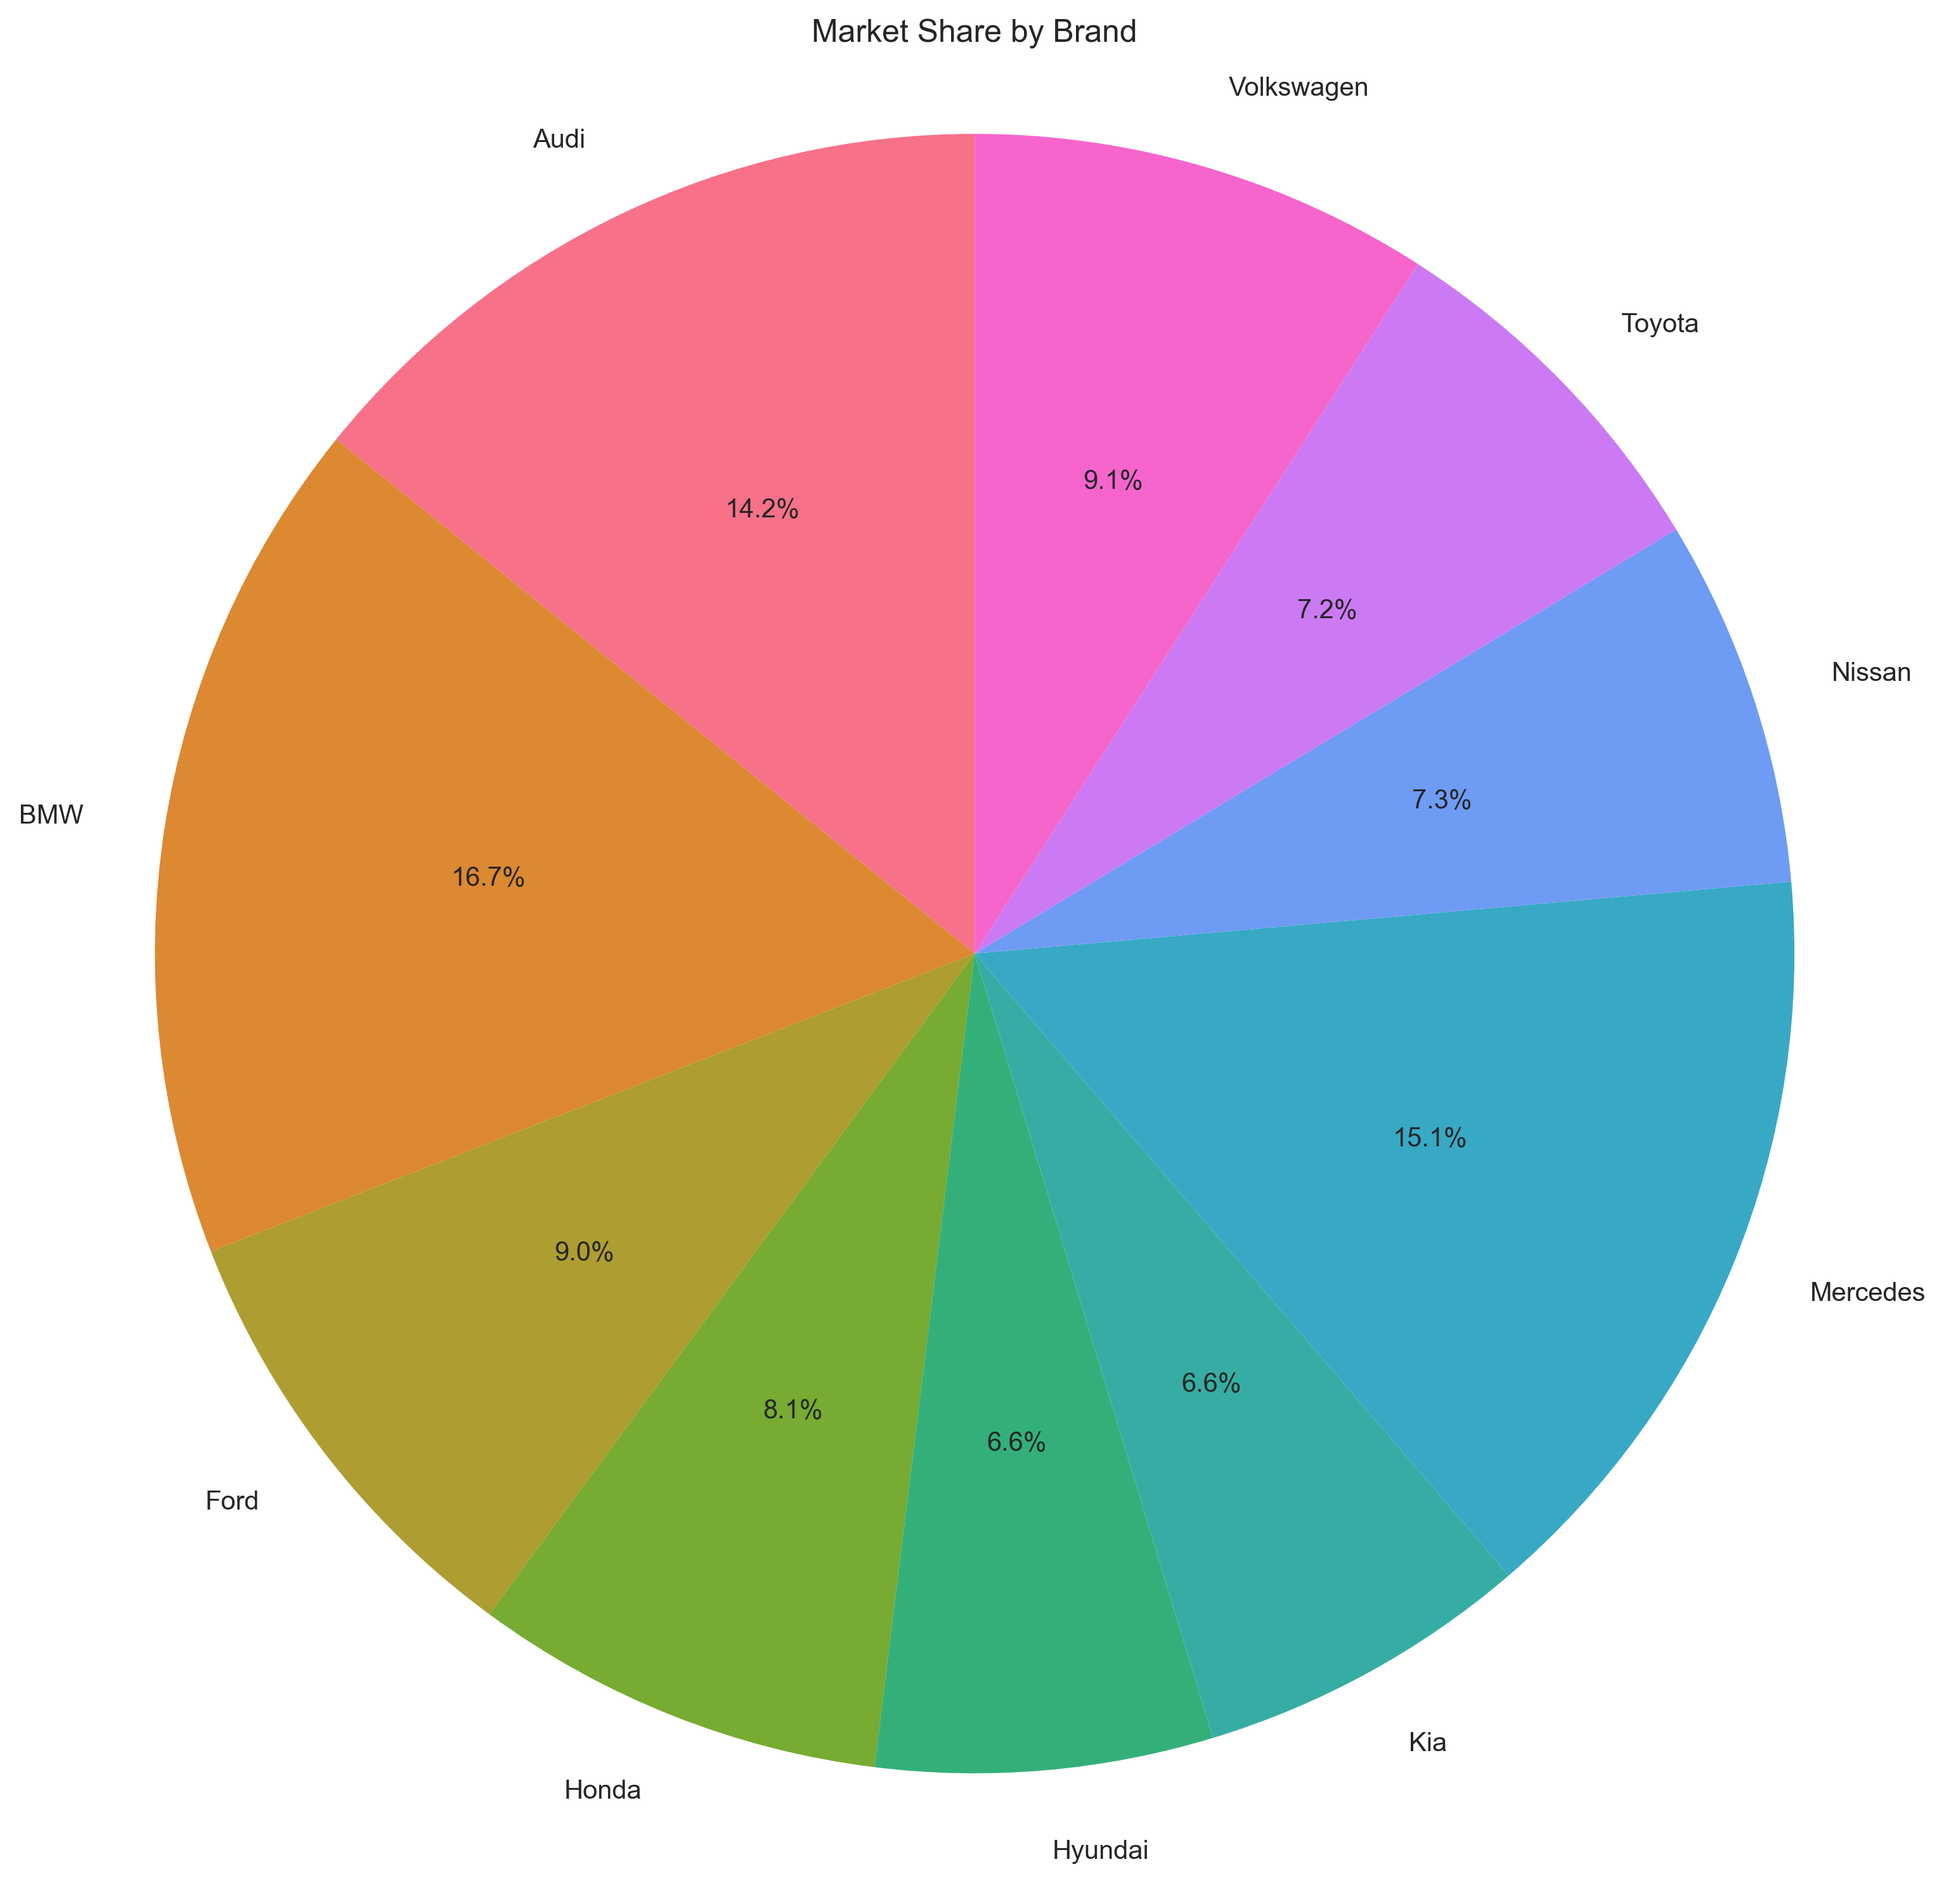
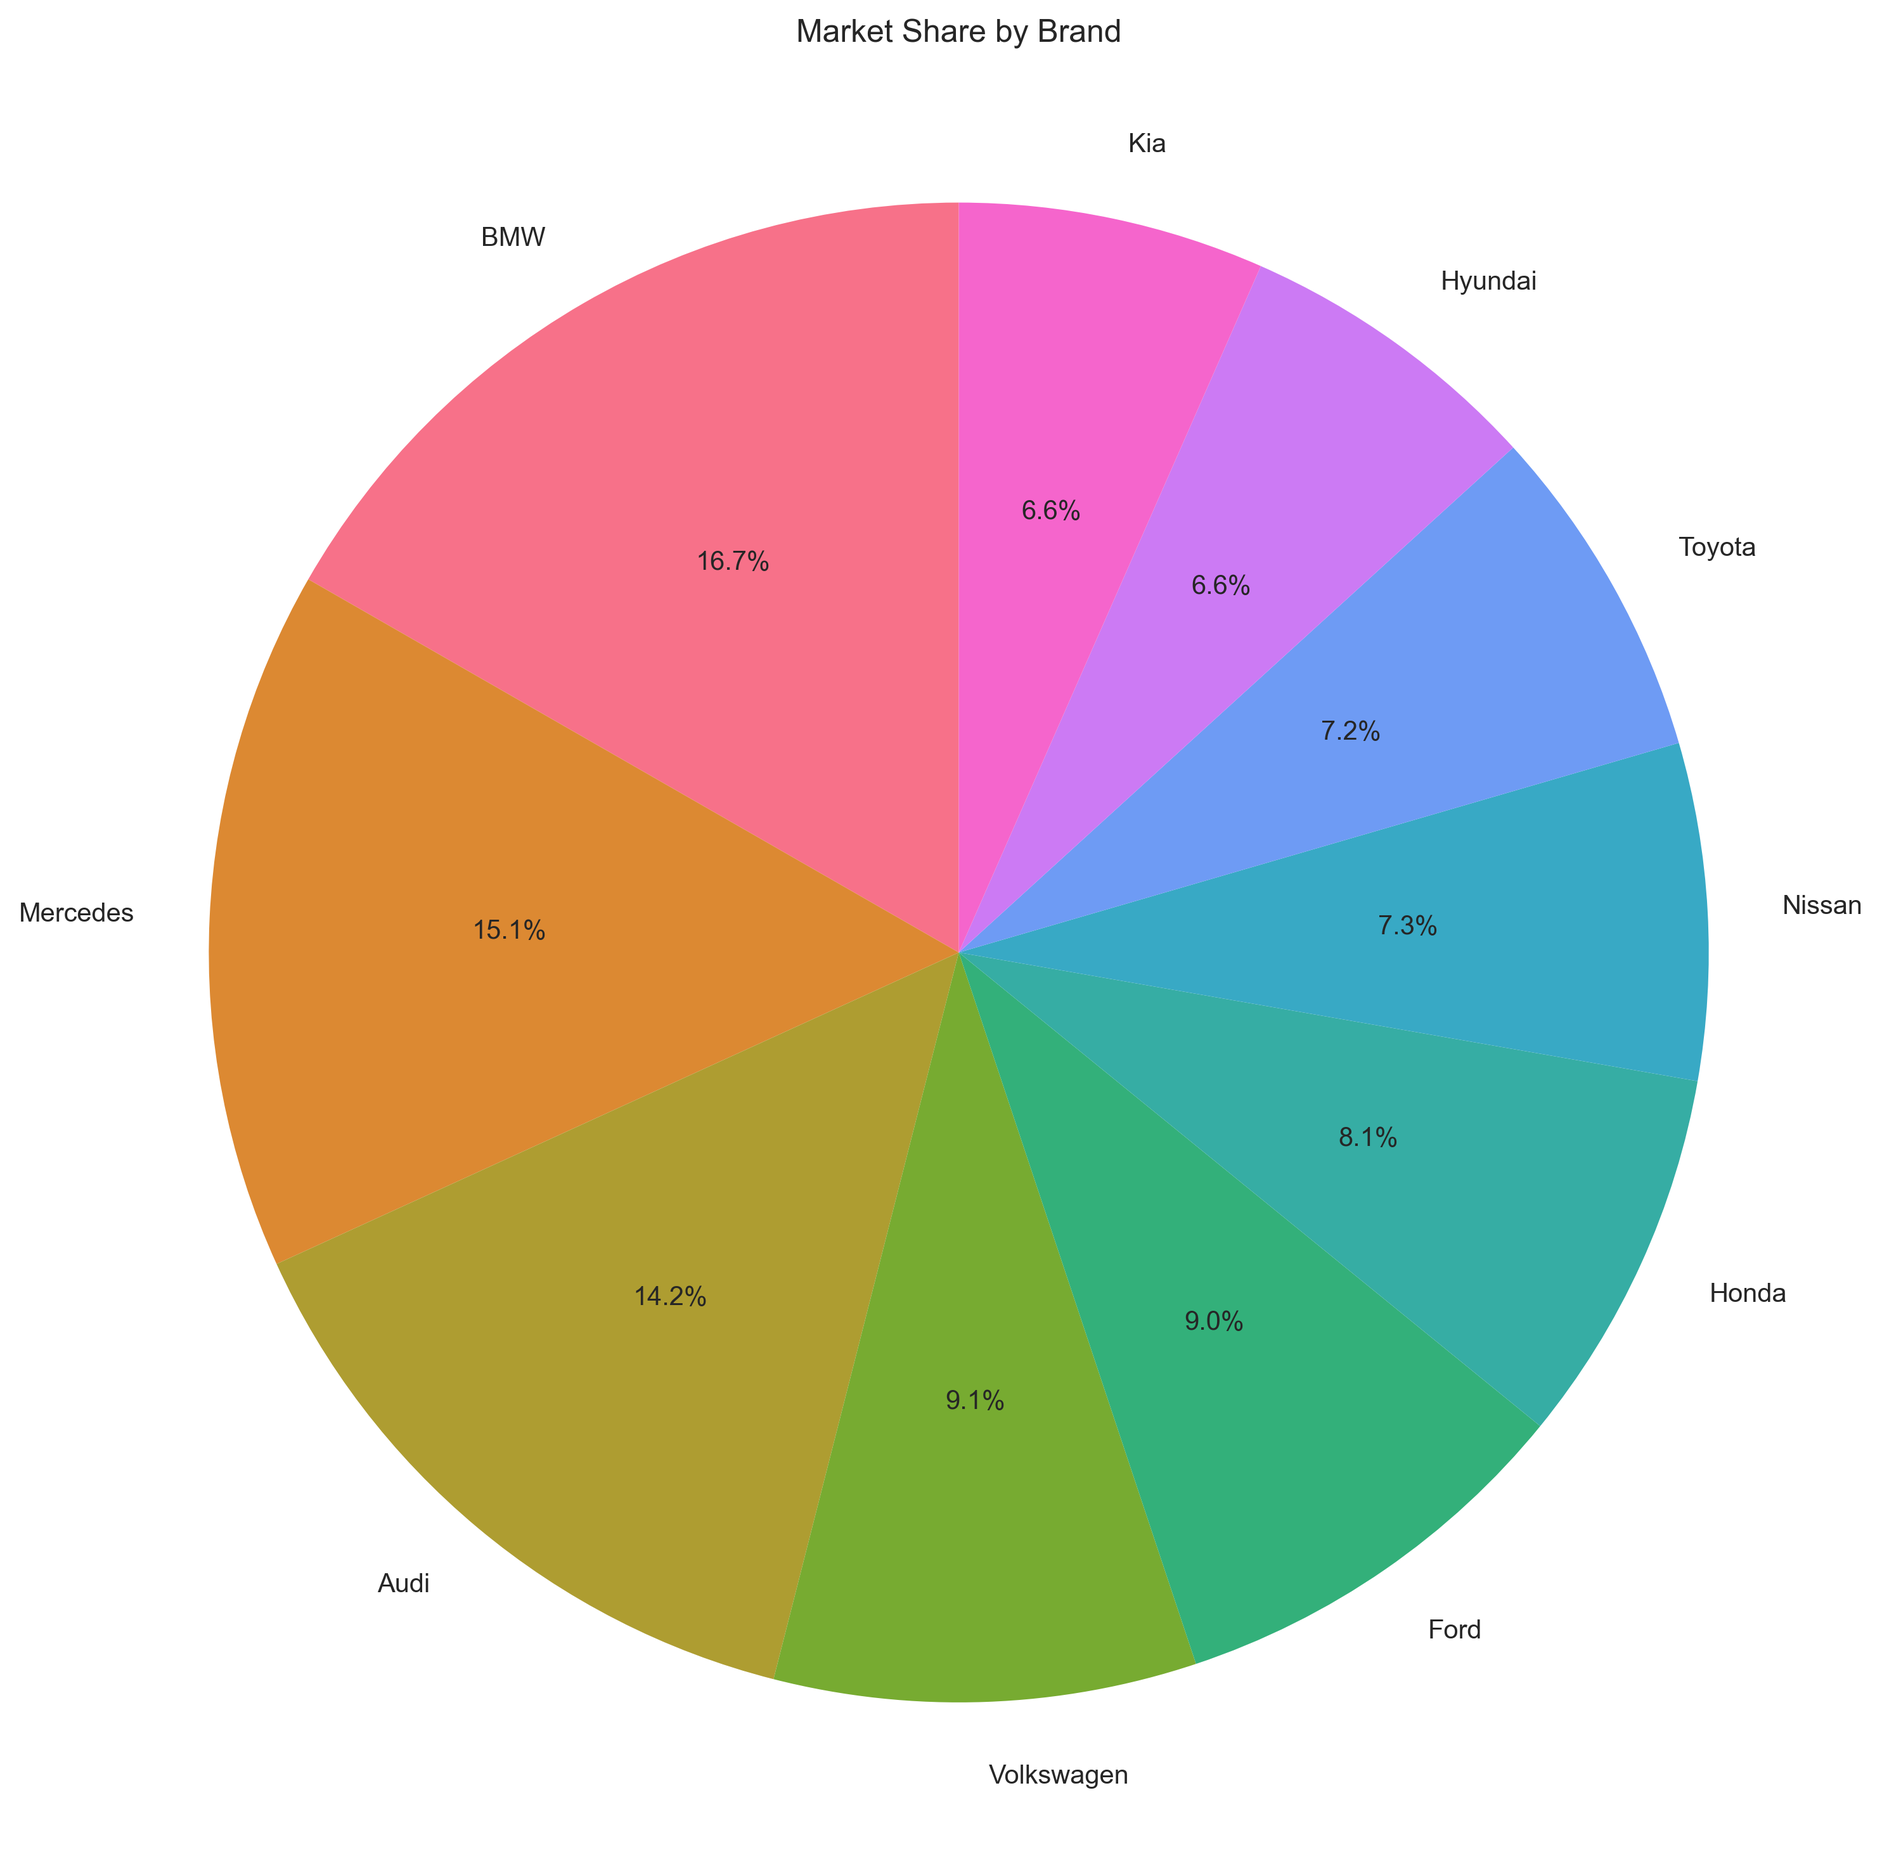
fix bugs

diff --git a/analysis_3/src/data_analyzer.py b/analysis_3/src/data_analyzer.py
@@ -34,7 +34,7 @@ class DataAnalyzer:
             (1 - brand_analysis['discount_mean'].rank(pct=True)) * 0.25
         ) * 100
         
-        return brand_analysis.sort_values('performance_score', ascending=True)
+        return brand_analysis.sort_values('performance_score', ascending=False)
     
     def regional_analysis(self):
         regional_stats = self.df.groupby('region').agg({
@@ -118,6 +118,8 @@ class DataAnalyzer:
                 'r_squared': 0,
                 'confidence_level': 'low',
                 'statistically_significant': False,
+                'p_value': None,
+                'data_points': len(df),
                 'data_with_trends': df
             }
         
@@ -127,14 +129,38 @@ class DataAnalyzer:
         trend_slope = model.coef_[0]
         r_squared = model.score(X, y)
         
-        confidence = 'high' if r_squared > 0.7 else 'medium' if r_squared > 0.4 else 'low'
+        y_pred = model.predict(X)
+        residuals = y - y_pred
+        n = len(X)
+        p = 1
+        
+        mse = np.sum(residuals ** 2) / (n - p - 1)
+        X_with_intercept = np.column_stack([np.ones(n), X.flatten()])
+        try:
+            var_coef = mse * np.linalg.inv(X_with_intercept.T @ X_with_intercept)
+            se_slope = np.sqrt(var_coef[1, 1])
+            t_stat = trend_slope / se_slope if se_slope > 0 else 0
+            p_value = 2 * (1 - stats.t.cdf(abs(t_stat), n - p - 1))
+        except:
+            p_value = 1.0
+        
+        is_significant = p_value < 0.05 and r_squared > 0.3
+        
+        if r_squared > 0.7 and p_value < 0.01:
+            confidence = 'high'
+        elif r_squared > 0.4 and p_value < 0.05:
+            confidence = 'medium'
+        else:
+            confidence = 'low'
         
         return {
             'trend_direction': trend_direction,
             'trend_slope': round(trend_slope, 2),
             'r_squared': round(r_squared, 4),
             'confidence_level': confidence,
-            'statistically_significant': r_squared > 0.3,
+            'statistically_significant': is_significant,
+            'p_value': round(p_value, 4) if p_value is not None else None,
+            'data_points': len(df),
             'data_with_trends': df
         }
     
@@ -148,11 +174,8 @@ class DataAnalyzer:
         features['brand_encoded'] = brand_encoded
         features['region_encoded'] = region_encoded
         
-        np.random.seed(42)
-        init_centers = features.sample(n=n_clusters, random_state=123).values
-        
-        kmeans = KMeans(n_clusters=n_clusters, init=init_centers, n_init=1, 
-                       max_iter=300, random_state=None)
+        kmeans = KMeans(n_clusters=n_clusters, init='k-means++', n_init=10, 
+                       max_iter=300, random_state=42)
         
         df['segment'] = kmeans.fit_predict(features)
         

diff --git a/analysis_3/src/data_processor.py b/analysis_3/src/data_processor.py
@@ -17,8 +17,8 @@ class DataProcessor:
         
         self.sales_df['date'] = pd.to_datetime(self.sales_df['date'])
         
-        self.sales_df['revenue'] = self.sales_df['quantity'] * self.sales_df['final_price']
-        self.sales_df.loc[self.sales_df['discount'] == 0, 'revenue'] = self.sales_df['quantity'] * self.sales_df['final_price'] * 1.1
+        if 'revenue' not in self.sales_df.columns:
+            self.sales_df['revenue'] = self.sales_df['quantity'] * self.sales_df['final_price']
         
         return self.sales_df
     
@@ -26,15 +26,16 @@ class DataProcessor:
         if self.customer_df is None:
             return self.sales_df
         
-        self.sales_df['customer_id'] = self.sales_df['salesperson_id'].apply(
-            lambda x: f"CUST{x.split('SP')[1]}" if 'SP' in x else f"CUST{x}"
-        )
+        if 'customer_id' not in self.sales_df.columns:
+            self.sales_df['customer_id'] = self.sales_df['sale_id'].apply(
+                lambda x: f"CUST{str(x).replace('SALE', '').zfill(5)}"
+            )
         
         merged_df = pd.merge(
             self.sales_df,
             self.customer_df,
             on='customer_id',
-            how='inner'
+            how='left'
         )
         
         if len(merged_df) == 0:
@@ -46,9 +47,9 @@ class DataProcessor:
         if self.dealer_df is None:
             return self.sales_df
         
-        self.sales_df['dealer_id'] = self.sales_df['region'].apply(
-            lambda x: f"DLR{self.dealer_df[self.dealer_df['region'] == x].iloc[0]['dealer_id'].replace('DLR', '')}"
-        )
+        region_dealer_map = self.dealer_df.groupby('region')['dealer_id'].first().to_dict()
+        
+        self.sales_df['dealer_id'] = self.sales_df['region'].map(region_dealer_map)
         
         merged_df = pd.merge(
             self.sales_df,
@@ -124,7 +125,7 @@ class DataProcessor:
             'final_price': 'mean'
         })
         
-        region_stats.columns = ['_'.join(col).strip() for col in region_stats.columns.values]
+        region_stats.columns = ['_'.join(col).strip() for col in region_stats.columns]
         region_stats = region_stats.reset_index()
         
         return region_stats

diff --git a/analysis_3/src/visualizer.py b/analysis_3/src/visualizer.py
@@ -80,10 +80,12 @@ class SalesVisualizer:
             values=metric, 
             index='brand', 
             columns='region', 
-            aggfunc='sum'
+            aggfunc='sum',
+            fill_value=0
         )
         
         regional_data_normalized = (regional_data - regional_data.mean()) / regional_data.std()
+        regional_data_normalized = regional_data_normalized.fillna(0)
         
         plt.figure(figsize=(12, 10))
         sns.heatmap(regional_data_normalized, annot=True, fmt='.2f', cmap='YlOrRd', 
@@ -116,12 +118,17 @@ class SalesVisualizer:
         
         plt.show()
     
-    def plot_brand_market_share(self, save_path=None):
-        brand_revenue = self.df.groupby('brand')['revenue'].sum()
+    def plot_brand_market_share(self, save_path=None, top_n=10):
+        brand_revenue = self.df.groupby('brand')['revenue'].sum().sort_values(ascending=False)
+        
+        if len(brand_revenue) > top_n:
+            top_brands = brand_revenue.head(top_n)
+            other_revenue = brand_revenue.iloc[top_n:].sum()
+            brand_revenue = pd.concat([top_brands, pd.Series({'Other': other_revenue})])
         
         plt.figure(figsize=(10, 10))
         plt.pie(brand_revenue.values, labels=brand_revenue.index, autopct='%1.1f%%',
-               colors=self.color_palette, startangle=90)
+               colors=self.color_palette[:len(brand_revenue)], startangle=90)
         
         plt.title('Market Share by Brand')
         plt.axis('equal')
@@ -252,7 +259,8 @@ class SalesVisualizer:
         
         ax3 = plt.subplot(2, 3, 3)
         regional_data = self.df.groupby('region')['revenue'].sum()
-        ax3.pie(regional_data.values, labels=regional_data.index, autopct='%1.1f%%')
+        ax3.pie(regional_data.values, labels=regional_data.index, autopct='%1.1f%%',
+               colors=self.color_palette[:len(regional_data)])
         ax3.set_title('Regional Revenue Distribution')
         
         ax4 = plt.subplot(2, 3, 4)

diff --git a/analysis_3/main.py b/analysis_3/main.py
@@ -70,6 +70,9 @@ def main():
     print(f"\nTrend Analysis: {trend_result['trend_direction']}")
     print(f"Trend Slope: {trend_result['trend_slope']}")
     print(f"R-squared: {trend_result['r_squared']}")
+    print(f"P-value: {trend_result['p_value']}")
+    print(f"Confidence Level: {trend_result['confidence_level']}")
+    print(f"Statistically Significant: {trend_result['statistically_significant']}")
     
     segmented_df, segment_profile = analyzer.segmentation_analysis(n_clusters=5)
     print("\nCustomer Segmentation Profile:")
